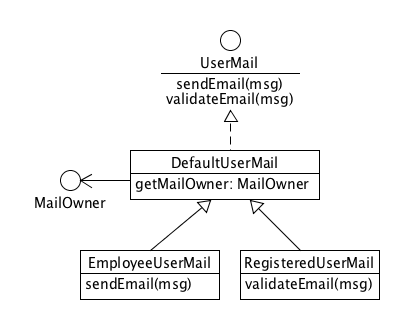
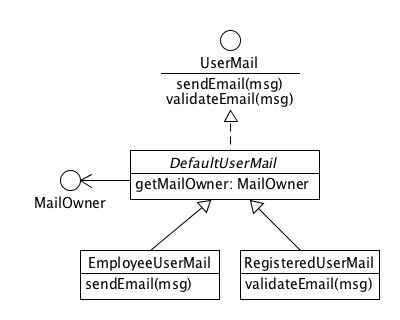
sw

Changed region(s): [[0.42, 0.4688, 0.69, 0.5312]]

diff --git a/_drafts/developing-protean-applications-part5.md b/_drafts/developing-protean-applications-part5.md
@@ -34,7 +34,7 @@ the user's traits (e.g. premium), the message being sent and also time, since
 the service can switch between the accounts in the background.
 
 Additionally, the service's interface is also mutable, since at various times
-it can provide various extending features. It puts some special requirements on
+it can provide various extending features. This fact puts some special requirements on
 the service's user interface, which must be able to reflect these mutations.
 For example, if a user is both an employee and a premium customer, then the
 user interface should adapt its look when the service switches the account to the
@@ -170,7 +170,7 @@ the `UserFaxByMail` type.
 
 #####Assembling the Service
 
-The following code sketches how the email service may be assebled from individual
+The following code sketches how the email service may be assembled from individual
 components.
 
 ```java
@@ -186,6 +186,9 @@ UserMail userMail2 = new RegisteredUserMail(registeredUserAdapter);
 
 userMail1 = new VirusDetector(userMail1);
 userMail2 = new VirusDetector(userMail2);
+
+//Now the userMail1 and userMail2 lost the track of the account; the account type
+// is no longer detectable from the instance's type.
 
 if (registeredUser.isPremium()) {
     userMail2 = new DefaultFaxByMail(registeredUserAdapter, userMail2);
@@ -217,7 +220,7 @@ and used as the argument to `EmployeeUserMail` and `RegisteredUserAdapter` const
 
 Both particular service instances userMail1 and userMail2 are wrapped by `VirusDetector`.
 
-If the user is a premium customer, then its email service is wrapped by `DefaultFaxByMail`
+If the user is a premium customer, then his email service is wrapped by `DefaultFaxByMail`
 to provide the fax-by-mail extension.
 
 Then the two mail service instances inserted into `AlternatingUserMail`, which
@@ -229,26 +232,64 @@ The rest of the code creates an email message and switches the accounts.
 The complete source code may be viewed [here](https://github.com/zslajchrt/morpheus-tutor/tree/master/src/main/java/org/cloudio/morpheus/mail).
 
 #####Summary
-The instance lost the track of the account, which is actually used; the account type is no longer detectable from
-the instance's type.
 
-The preservation of the type would loosen the coupling between the instance and its client. For example,
-the user interface would be able to adapt itself to the type of the account just on the basis of the mail
-service instance's type. Now, the UI would have to consult the state of the instance and retrieve the user account instance
-from some getter.
+As far as the two account adapters are concerned, there is no serious design flaw. The
+combination of inheritance and interface implementation preserves both types
+in instances (i.e. no object schizophrenia). Thus it is possible to check the type
+of an instance and then to cast it to either `Employee` or `RegisteredUser` to
+get access to the account specific members.
 
-Unfortunately, the UserMail interface has no method for getting the user account. Thus it would
-be practically impossible to determine the actual user account type without using some reflection tricks
-or introducing a new getUserAccount method in the UserMail interface. Both solutions are bad.
+The only weakness is the cloning, because the state of the original account instances
+must be transferred to the new adapted instances.
 
-The former would be a plain hack, while the latter purblindly introduces a backward incompatible change to the
-general contract declared by the UserMail interface. It would force all UserMail implementations to add the new method
-even if it would make no sense for them, since some implementation may not wrap any user account object at all.
+Also the implementations of `DefaultUserMail` as well as of its two specializations
+`EmployeeUserMail` and `RegisteredUserMail` are pretty straightforward.
 
-Such classes would have to return null as an indication there is no underlying user account object. Moreover,
-the return type of the getUserAccount method would have to be Object, since there is no common ground shared
-by all potential user accounts; the diversity of user accounts is actually the main presupposition of this
-case study.
+The `DefaultUserMail` is designed a package private abstract class. Thus it cannot
+be instantiated and only classes in from its package can extend it. The package
+contains only two such classes: `EmployeeUserMail` and `RegisteredUserMail`.
+
+The only flaw is the `getMailOwner` public method introduced in `DefaultUserMail` mediating
+the access to the underlying user account and which might indicate a loss of
+user account type information in `DefaultUserMail`'s instances. However, since
+the type of the account is indirectly carried by the only two subclasses
+`EmployeeUserMail` and `RegisteredUserMail`, this issue is of a minor importance.
+
+On the contrary, the `VirusDetector` copes with serious complications caused
+by the induced object schizophrenia, as described above. Further, until the mail service
+instances are not wrapped by `VirusDetector`, they preserve their account type information.
+
+The implementation of the optional fax service `DefaultFaxByMail` also hides the account type.
+Additionally, there is a possibly dangerous assumption that the it must be the topmost
+wrapper.
+
+Probably the most problematic component is `AlternatingUserMail`. Besides its
+serious object schizophrenia stemming from the state pattern used to implement
+the switching, its most serious flaw is the conditional implementation of
+`UserFaxByMail`. Also it must the final wrapper, which is handed over to the
+mail service client, which is tightly coupled with `AlternatingUserMail`, through
+which the client can determine the presence of the fax extension and access it.
+
+The preservation of types when adapting or extending other classes helps loosen
+the coupling between the instances and their client. For example, the user interface
+would be able to adapt itself to the type of the account just on the basis of the mail
+service instance's type.
+
+Unfortunately, the `AlternatingUserMail` interface cannot provide such information,
+since the `UserMail` interface has no method for getting the type of the user account.
+Thus it would be practically impossible for the client to determine the actual user account type
+without using some reflection tricks or introducing a new `getUserAccount` method
+in the `UserMail` interface. Both solutions are bad.
+
+The former would be a plain hack, while the latter purblindly introduces a backward
+incompatible change to the general contract declared by the `UserMail` interface.
+It would force all UserMail implementations to add the new method even if it would
+make no sense for them, since some implementation may not wrap any user account
+object at all. Such classes would have to return `null` as an indication there is
+no underlying user account object. Moreover, the return type of the `getUserAccount`
+method would have to be `Object`, since there is no common ground shared
+by all potential user accounts; the diversity of user accounts is actually
+the main presupposition of this case study.
 
 ####Modelling the Service With Traits
 

diff --git a/_drafts/developing-protean-applications-part6.md b/_drafts/developing-protean-applications-part6.md
@@ -5,74 +5,8 @@ comments: true
 permalink: developing-protean-applications-part6
 ---
 
-###Protean Behavior Caused By Underlying Data
+####Modelling the Service With Traits
 
-```scala
-@dimension
-trait MailService {
-  def send(message: Message): Unit
-}
+####Using Object Metamorphism to model the Service
 
-case class Attachment(name: String, data: Array[Byte], mime: String)
-
-case class Message(from: String, recipients: List[String], subject: String, message: String, attachments: List[Attachment])
-```
-
-```scala
-@dimension
-@wrapper
-trait FromHeaderValidator extends MailService {
-  this: PersonPublicCommon =>
-
-  abstract override def send(msg: Message): Unit = {
-    val msgWithFrom = msg.from match {
-      case None => msg.copy(from = this.email)
-      case Some(f) => msg
-    }
-    super.send(msgWithFrom)
-  }
-
-}
-```
-
-```scala
-val mailRef: &[$[MailService with FromHeaderValidator]] = regUserOrEmpKernel
-val mailKernel = *(mailRef, single[MailServiceMock])
-```
-
-TODO: Link to MailServiceMock
-
-```scala
-val msg = Message(None, List("agata@gmail.com"), "Hello", "Bye", Nil)
-mailKernel.~.send(msg)
-```
-
-```scala
-@dimension
-@wrapper
-trait SignatureAppender extends MailService {
-  this: EmployeeEntity =>
-
-  abstract override def send(msg: Message): Unit = {
-    super.send(msg.copy(message = msg.message + signature))
-  }
-
-  lazy val signature: String = {
-    s"""
-     ${emp.personalData.title} ${emp.personalData.firstName} ${emp.personalData.lastName}
-     ${emp.position}
-     ${emp.department}
-     TheBigCompany.com
-     http://thebigcompany.com
-     """
-  }
-
-}
-```
-
-```scala
-val mailRef: &[$[MailService with FromHeaderValidator with /?[SignatureAppender]]] = regUserOrEmpKernel
-val mailKernel = *(mailRef, single[MailServiceMock], single[FromHeaderValidator], single[SignatureAppender])
-```
-
-TODO: describe the effect of \?[F] and /?[F] on choosing the winning alternative
+####Conclusion
